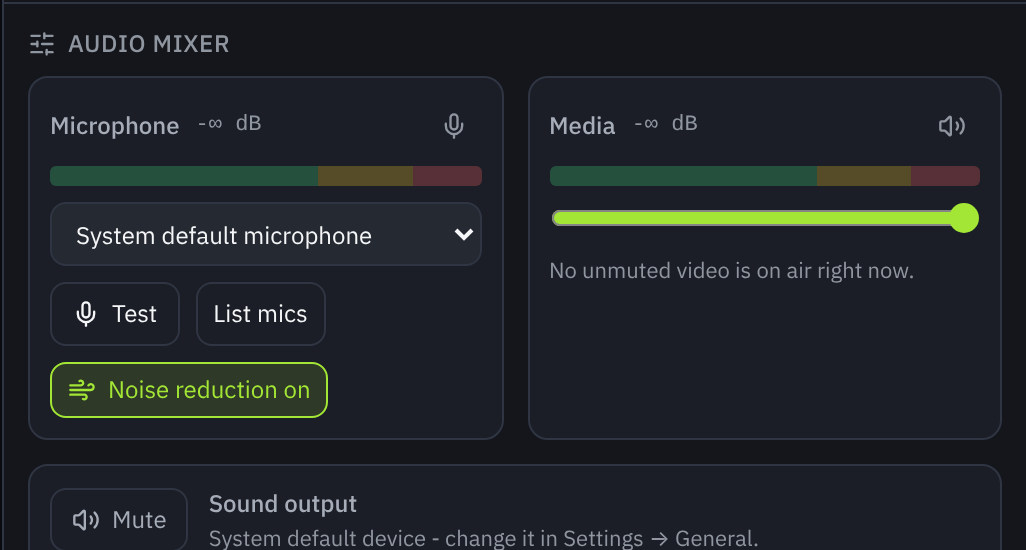
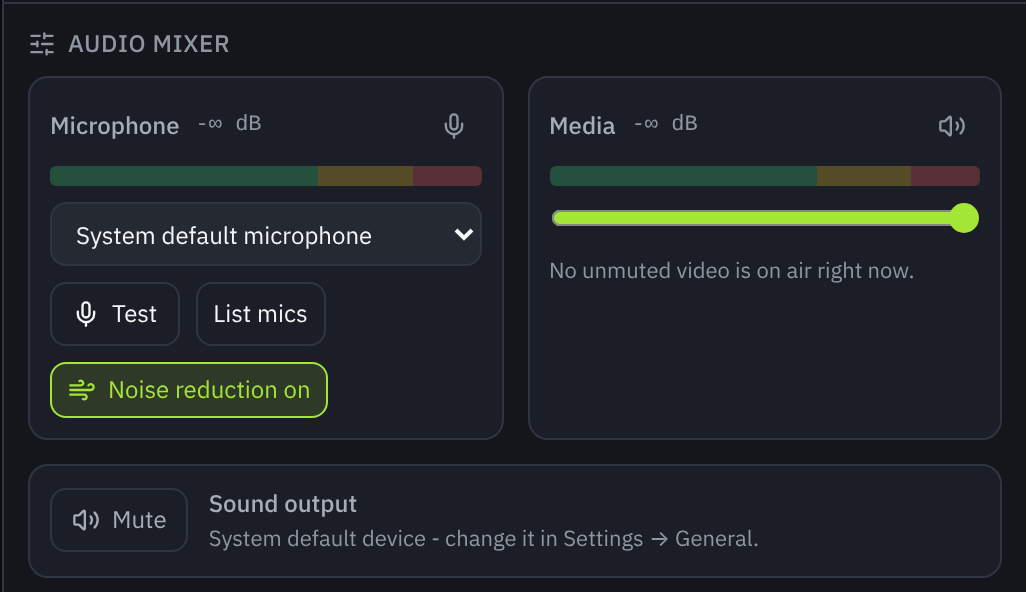
Guide: show the whole Sound output row in the audio mixer screenshot
Claude-Session: https://claude.ai/code/session_01HKcaEVEXETqqUG3psYmBL6

diff --git a/docs/guide.html b/docs/guide.html
@@ -1410,7 +1410,7 @@
         <li><b>Sound output</b> - one button that silences everything Vifug plays, on every screen at once, without changing any clip's own setting. This is the one to reach for when a video starts talking over the preacher; press it again to bring the sound back exactly as it was.</li>
       </ul>
       <figure style="margin:22px 0">
-        <img width="1026" height="550" src="img/app-audio-mixer.png" alt="The Audio Mixer on the operator screen: microphone and media strips side by side, with a master Sound output mute below them" loading="lazy" style="width:100%;height:auto;border-radius:10px;border:1px solid var(--line, rgba(255,255,255,.12))">
+        <img width="1026" height="592" src="img/app-audio-mixer.png" alt="The Audio Mixer on the operator screen: microphone and media strips side by side, with a master Sound output mute below them" loading="lazy" style="width:100%;height:auto;border-radius:10px;border:1px solid var(--line, rgba(255,255,255,.12))">
         <figcaption style="margin-top:8px;font-size:13px;color:var(--faint)">Two sources in, one output out. The same mutes are in Settings, beside the device each one belongs to.</figcaption>
       </figure>
 
